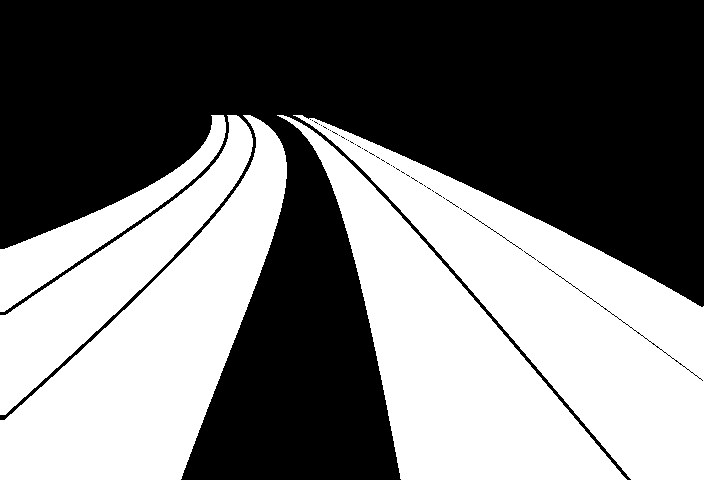
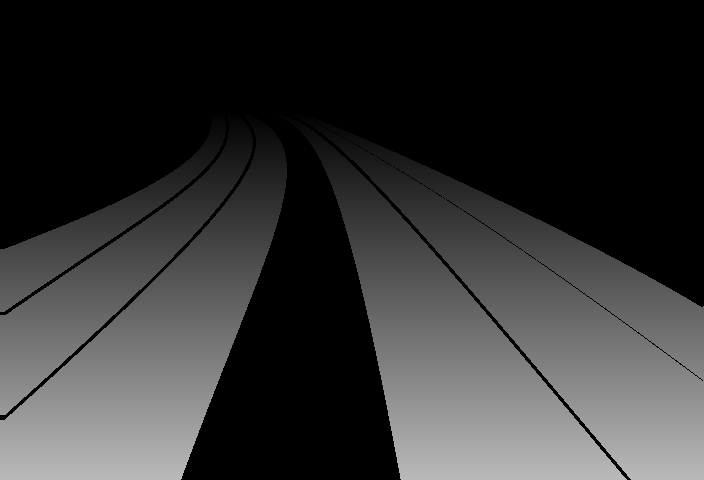
Fixed curved camera map - changed from double to uint8

diff --git a/src/utilities/drawLineSegment.m b/src/utilities/drawLineSegment.m
@@ -1,6 +1,8 @@
 function[drawImage] = drawLineSegment(image, point1, point2, color)
     % Script that draws the line segment between two specified points both 
     % assumed to be on the image
+    % Edit: If the point(s) is/are outside the boundary, it/they are
+    % clipped appropriately
     %
     % Usage:
     % drawImage = drawLineSegment(image, point1, point2)
@@ -15,7 +17,14 @@ function[drawImage] = drawLineSegment(image, point1, point2, color)
         color = uint8([255, 0, 0]);
     end
 
-    xDiff = abs(point1(1) - point2(1));
+    % Clip the line segment to draw if one/two of the points is outside the
+    % frame    
+    % Checking for point 1
+    if(point1) 
+        a
+    end
+    
+    xDiff = abs(point1(1) - point2(1));ww
     yDiff = abs(point1(2) - point2(2));
     % Drawing based on x-coordinate
     if(xDiff > yDiff)
@@ -42,7 +51,7 @@ function[drawImage] = drawLineSegment(image, point1, point2, color)
     % Marking the image with the straight lines for each
     % channel RGB
     drawImage = image;
-    
+
     for channel = 1:3
         indices = sub2ind(size(image), floor(ySpan), floor(xSpan),...
                                                 channel*ones(size(ySpan)));

diff --git a/src/geometry/@GeometryEstimator/generateRoadBelief.m b/src/geometry/@GeometryEstimator/generateRoadBelief.m
@@ -43,7 +43,7 @@ function[debugFrame, lanes] = generateRoadBelief(obj, foreground, frame)
                 
     % Re-projecting it back to the image, for drawing the lanes
     imgPts = ipHomography \ [laneEdges; ...
-                            obj.imageSize(1) * ones(1, length(laneEdges));...
+                            size(warpedBackground, 1) * ones(1, length(laneEdges));...
                             ones(1, length(laneEdges))];
     
     % Converting from homogeneous to non-homogeneous
@@ -66,10 +66,11 @@ function[debugFrame, lanes] = generateRoadBelief(obj, foreground, frame)
     debug = true;
     if(debug)
         % Warping the frame for debugging
-        warpedFrame = warpH(frame, ipHomography, size(frame));
-        computeHoughLanes(warpedFrame);
+        warpedFrame = warpH(frame, ipHomography, ...
+                            [laneRatio, 1.0, 1.0] .* size(frame));
+        %computeHoughLanes(warpedFrame);
         
-        %figure(3); imshow(debugFrame)
+        figure(3); imshow(debugFrame)
         %figure(4); plot(smoothBelief)
         %figure(5); imshow(warpedFrame)
         %figure(6); imshow(grayFrame)

diff --git a/src/geometry/@GeometryEstimator/computeIPTransform.m b/src/geometry/@GeometryEstimator/computeIPTransform.m
@@ -96,14 +96,9 @@ function [ipHomography, warpedImg] = computeIPTransform(obj, image, laneRatio, l
     % Compute H
     ipHomography = computeH(pts1, pts2);
 
-    % Warp the image
+    % Warp the image, with size proportional to the lane size
     warpedSize = floor([laneRatio, 1.0] .* size(image));
-    warpedSize
-    %warpedImg = warpH(image, ipHomography, size(image));
     warpedImg = warpH(image, ipHomography, warpedSize);
-    % Display image for visualization
-    %figure; imshow(image)
-    %figure(2); imshow(warpedImg)
     
     %obj.homography = H;
 end
